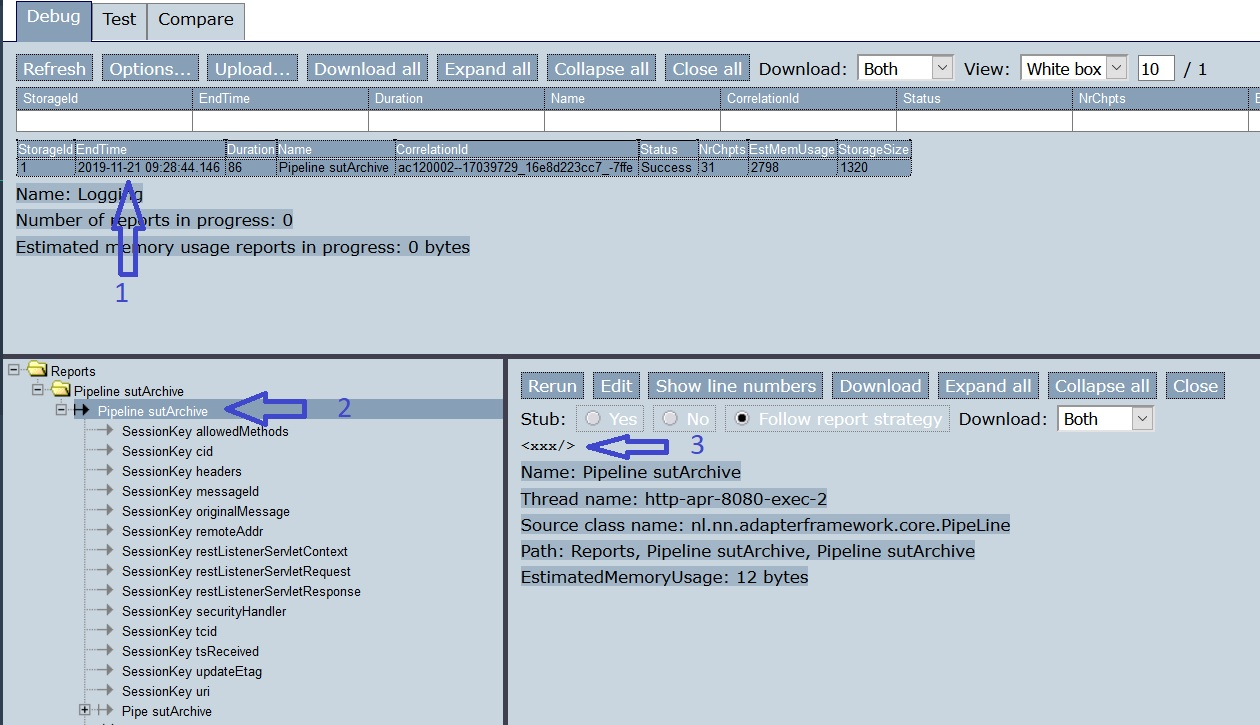
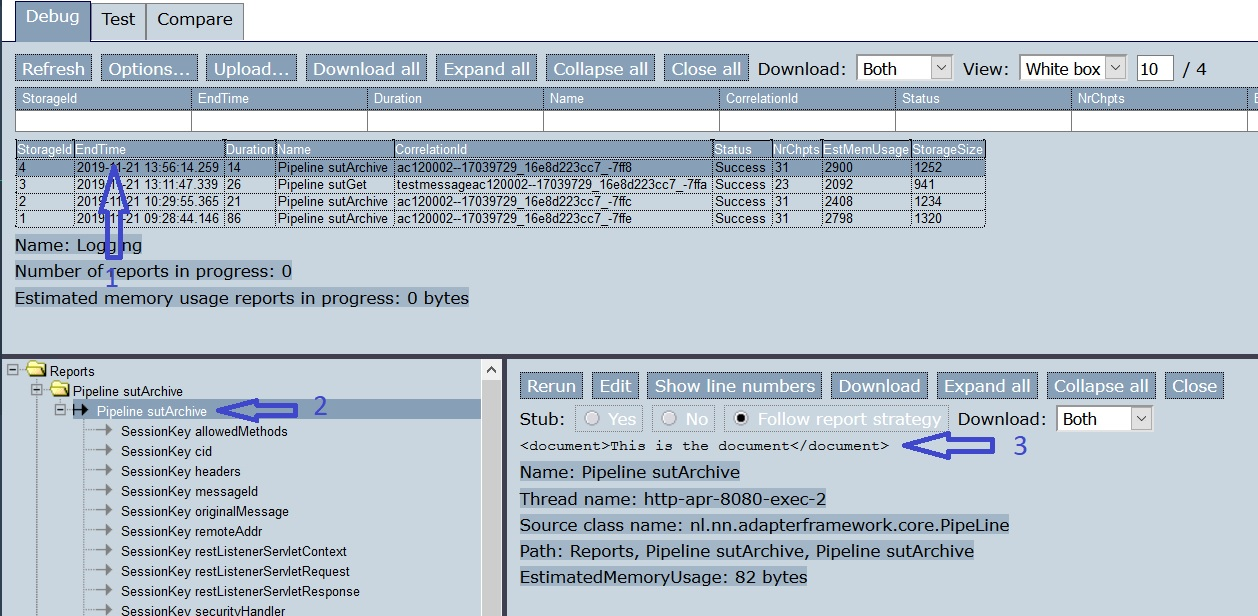
More fixes

diff --git a/docs/source/testing/ladybug/useTestPipeline/useTestPipeline.rst b/docs/source/testing/ladybug/useTestPipeline/useTestPipeline.rst
@@ -39,5 +39,13 @@ Please call the the electronic archive as follows:
 
       This result is fixed as motivated in :ref:`introduction`.
 
-.. include:: ../useWebInterface/commonWindowsLinux.rst
+#. Go back to Ladybug and press Refresh:
 
+   .. image:: ../useWebInterface/ladybugRefresh.jpg
+
+#. You see a table in which your HTTP call appears (number 1):
+
+   .. image:: ladybugReport.jpg
+
+#. Click the line corresponding to your call to the electronic archive.
+You see a tree view of the execution of this Frank adapter (number 2). To the right, you see information about the selected node (number 3). In this case, it is the output XML message you saw before after pressing "Send" in Test Pipeline.
